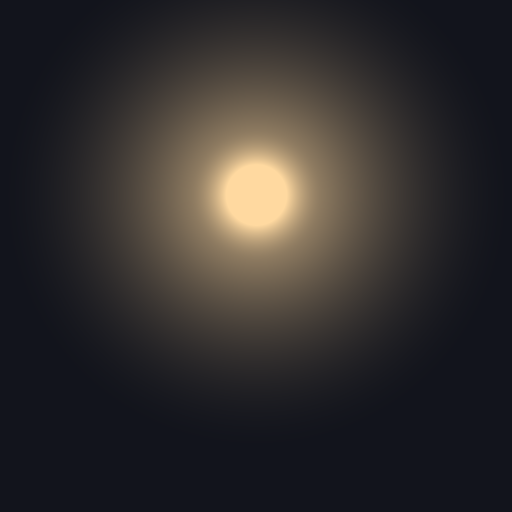
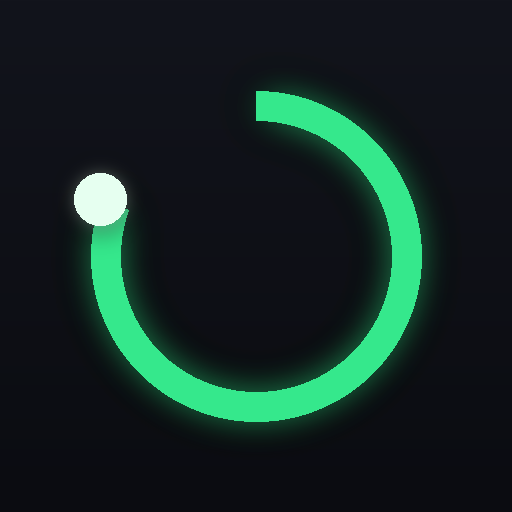
앱 아이콘을 초록 타이머 링 디자인으로 교체

diff --git a/sw.js b/sw.js
@@ -1,4 +1,4 @@
-const CACHE = 'motion-timer-v7';
+const CACHE = 'motion-timer-v8';
 const ASSETS = [
   './',
   './index.html',